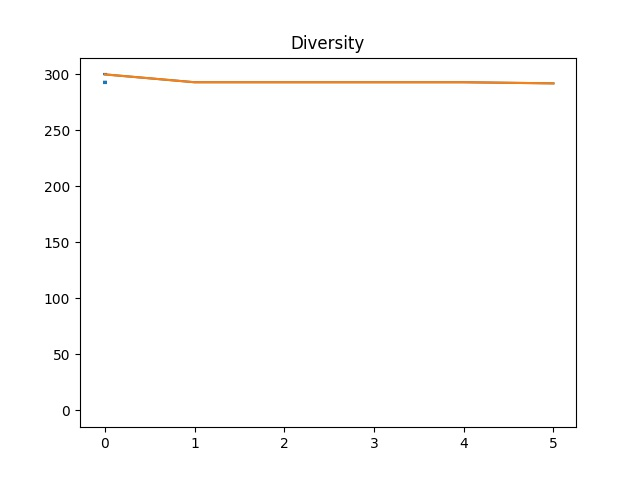
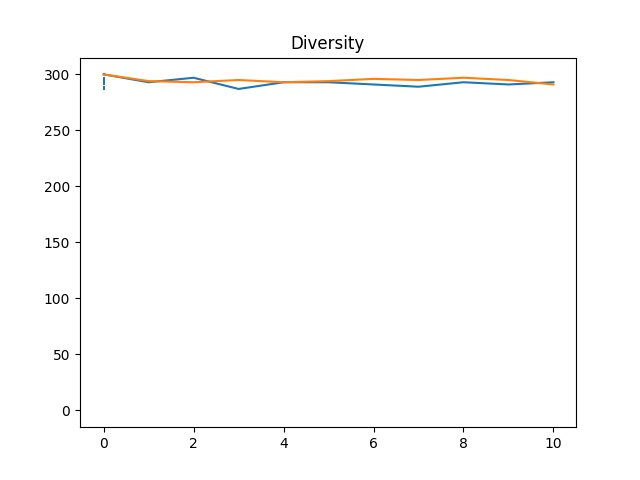
New tests; added plot_stats.py

diff --git a/plot_stats.py b/plot_stats.py
@@ -4,27 +4,39 @@ import numpy as np
 
 runs=5
 
-diversity=[[300, 293, 293, 293, 293, 292],
-            [300, 293, 293, 293, 293, 292]]
+diversity=[[300, 293, 297, 287, 293, 293, 291, 289, 293, 291, 293],
+            [300, 294, 293, 295, 293, 294, 296, 295, 297, 295, 291]]
+
+avg = [[1.590831301750845e-05, 1.3676922556859658e-05, 1.0439763467715613e-05, 8.219747617495894e-06, 7.567752596851802e-06, 7.2446749599144735e-06, 9.921080921722585e-06, 7.328130815881268e-06, 3.0295768040222177e-05, 1.1977936668750194e-05, 1.0883744874552183e-05],
+        [6.130100572638133e-05, 1.0206937362419025e-05, 8.573787184543817e-06, 1.2816521857800207e-05, 1.4020428446953784e-05, 1.0882191646887438e-05, 1.3286548658444479e-05, 1.1594046095121384e-05, 1.1951355207583725e-05, 1.1178575612215689e-05, 9.893303726052997e-06]]
 
 # plot the data
-fig = plt.figure()
-ax = fig.add_subplot(1, 1, 1)
+fig_div = plt.figure()
+
 for i in range(len(diversity)):
-    ax.plot(range(len(diversity[i])), diversity[i])
+    plt.plot(range(len(diversity[i])), diversity[i])
 
-    # create the events marking the x data points
-    ax.add_collection(EventCollection(range(len(diversity[i])), linelength=0.05))
+plt.title('Diversity')
+plt.legend(["Single Gene M. O.", "Multi-gene M. O."], loc ="lower right")
 
-    # create the events marking the y data points
-    ax.add_collection(EventCollection(diversity[i], linelength=0.05, orientation='vertical'))
-
-
-# set the limits
-# ax.set_xlim([0, 1])
-# ax.set_ylim([0, 1])
-
-ax.set_title('Diversity')
+plt.ylabel("Diversity")
+plt.xlabel("Generation")
 
 # display the plot
-plt.savefig("output.jpg")
+plt.savefig("Diversity.jpg")
+
+
+# plot the data
+fig_avg = plt.figure()
+
+for i in range(len(avg)):
+    plt.plot(range(len(avg[i])), avg[i])
+
+plt.title('Average fitness')
+plt.legend(["Single Gene M. O.", "Multi-gene M. O."], loc ="upper right")
+
+plt.ylabel("Avg. Fitness")
+plt.xlabel("Generation")
+
+# save plot
+plt.savefig("Average.jpg")
